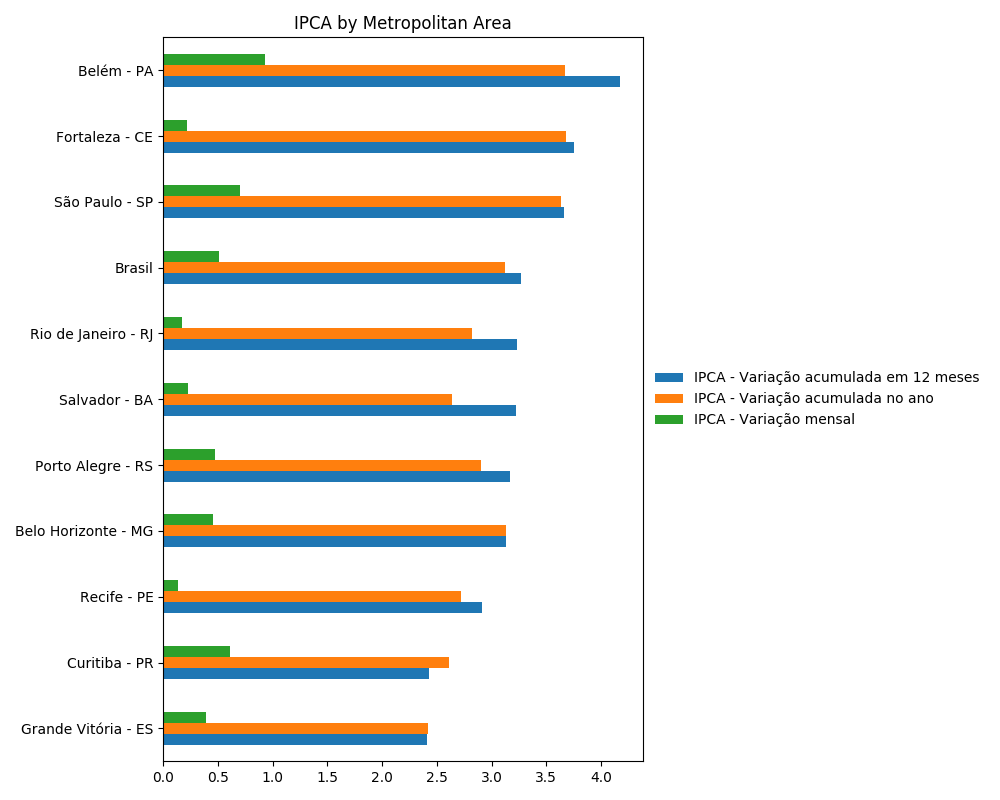
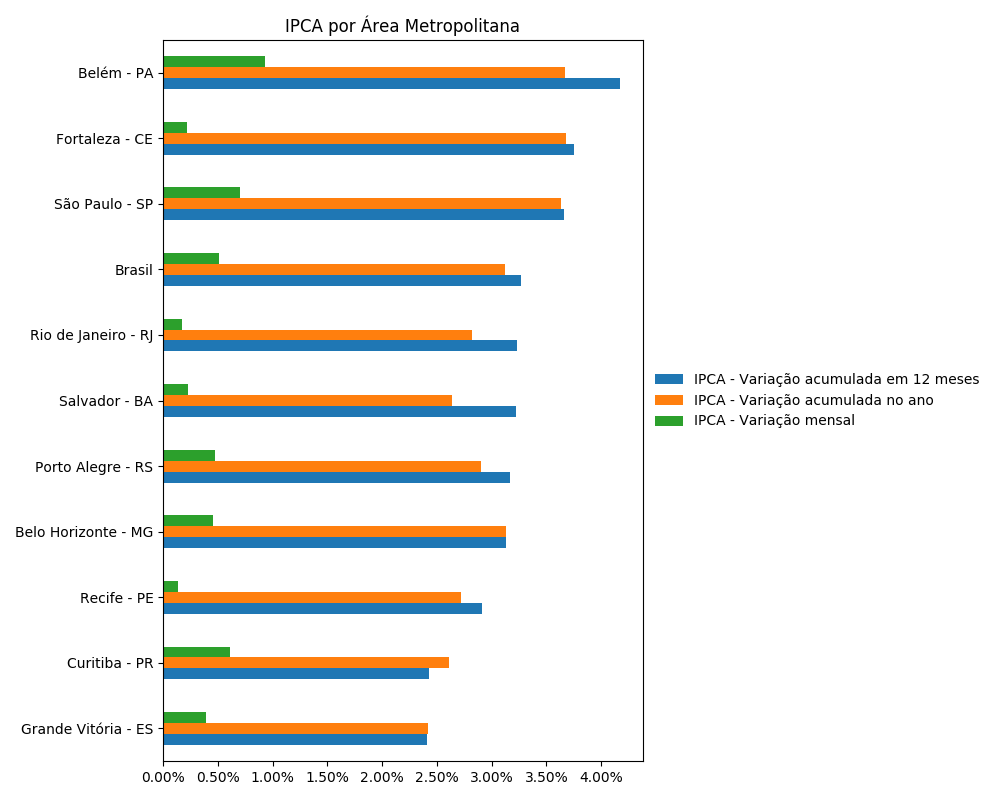
docs: charts with percent format in x axis

diff --git a/docs/source/demos/IBGE.rst b/docs/source/demos/IBGE.rst
@@ -107,20 +107,22 @@ Now let's visualize the inflation rate by product / service.
 
    import matplotlib
    import matplotlib.pyplot as plt
+   import matplotlib.ticker as ticker
 
    ipca.pivot_table(
        index="Geral, grupo, subgrupo, item e subitem", columns="Variável", values="Valor"
    ).drop("IPCA - Peso mensal", axis="columns").sort_values(
        "IPCA - Variação acumulada em 12 meses"
    ).plot(
-       kind="barh", title="IPCA by Procuct", figsize=(10, 8)
+       kind="barh", title="IPCA por Produto / Serviço", figsize=(10, 8)
    ).legend(
        bbox_to_anchor=(1, 0.5), loc="center left", frameon=False
    )
 
    plt.ylabel("");
-   @savefig ipca_by_product.png
    plt.tight_layout()
+   @savefig ipca_by_product.png
+   plt.gca().xaxis.set_major_formatter(ticker.PercentFormatter())
 
 
 To see the weight of each product in the inflation rate:
@@ -135,8 +137,9 @@ To see the weight of each product in the inflation rate:
    )
 
    plt.ylabel("");
-   @savefig ipca_weight_by_product.png
    plt.tight_layout()
+   @savefig ipca_weight_by_product.png
+   plt.gca().xaxis.set_major_formatter(ticker.PercentFormatter())
 
 
 It would be great if we could plot the inflation rate by metropolitan
@@ -168,14 +171,15 @@ other regions and also for Brazil as a whole, you can do the following:
    ).drop("IPCA - Peso mensal", axis="columns").sort_values(
        "IPCA - Variação acumulada em 12 meses"
    ).plot.barh(
-       title="IPCA by Metropolitan Area", figsize=(10, 8)
+       title="IPCA por Área Metropolitana", figsize=(10, 8)
    ).legend(
        bbox_to_anchor=(1, 0.5), loc="center left", frameon=False
    )
 
    plt.ylabel("");
-   @savefig ipca_by_area.png
    plt.tight_layout()
+   @savefig ipca_by_area.png
+   plt.gca().xaxis.set_major_formatter(ticker.PercentFormatter())
 
 
 You could, of course, also filter by a specific date. For example, it
@@ -196,14 +200,15 @@ Truck Drivers' strike in 2018.
    ).sort_values(
        "IPCA - Variação acumulada em 12 meses"
    ).plot.barh(
-       title="IPCA after Truckers' strike (June 2018)", figsize=(10, 10)
+       title="IPCA após greve dos caminhoneiros (junho/2018)", figsize=(10, 10)
    ).legend(
        bbox_to_anchor=(1, .5), loc="center left", frameon=False
    )
 
    plt.ylabel("");
-   @savefig ipca_truckers_strike.png
    plt.tight_layout()
+   @savefig ipca_truckers_strike.png
+   plt.gca().xaxis.set_major_formatter(ticker.PercentFormatter())
 
 
 Getting metadata
